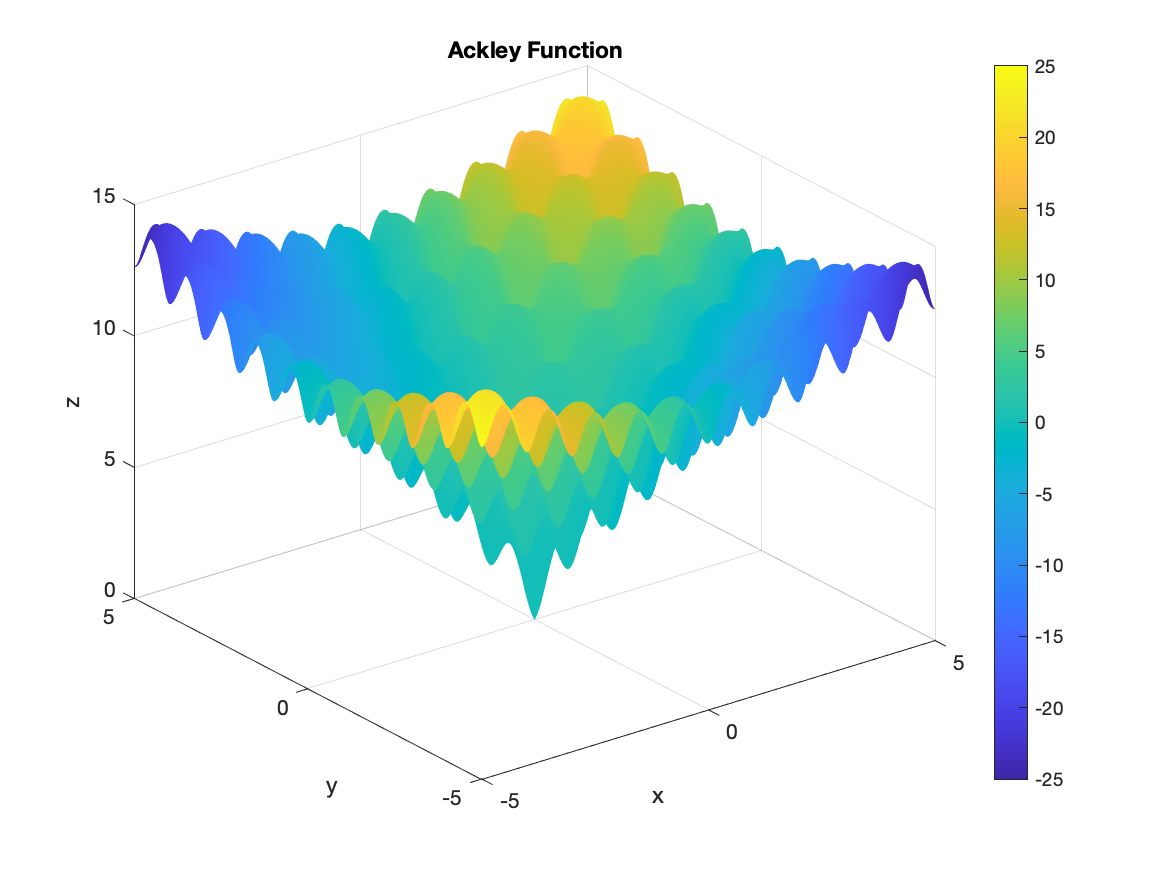
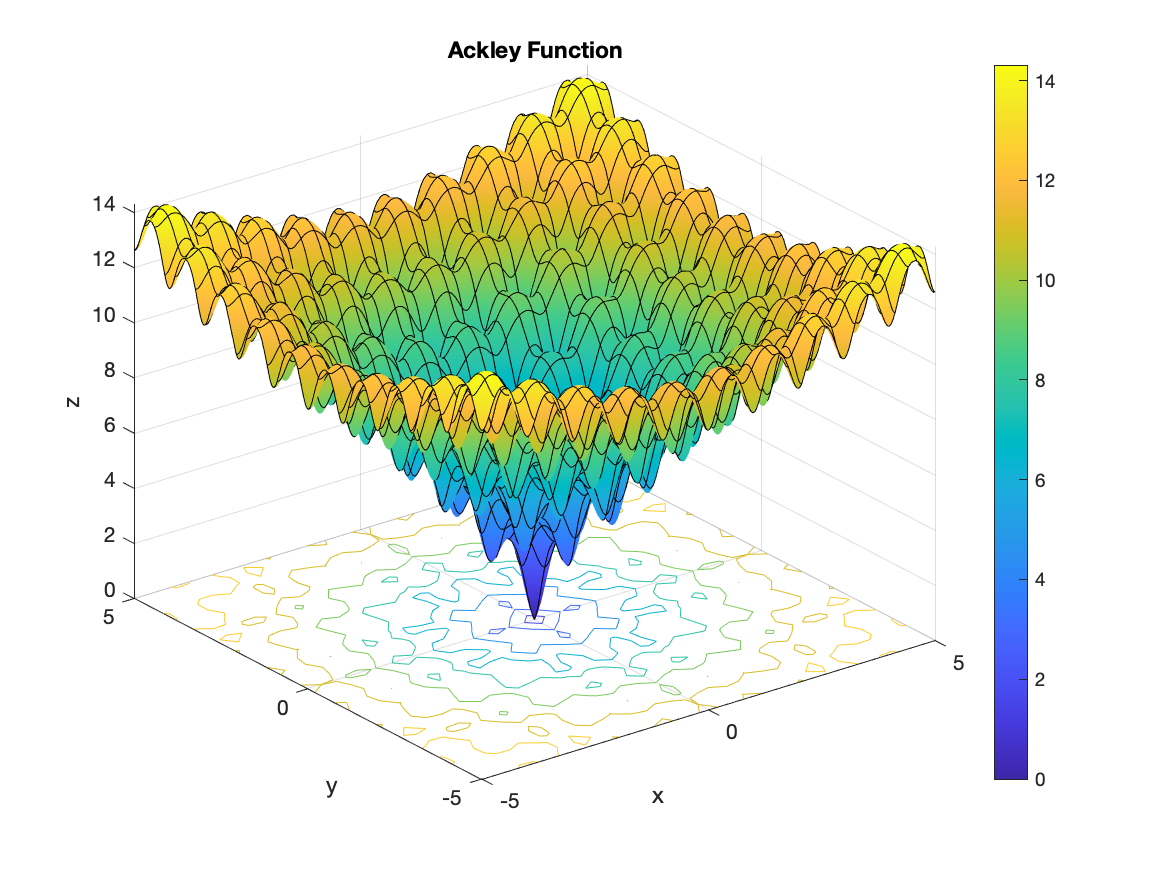
ackley added

diff --git a/code/E01_Optimization.m b/code/E01_Optimization.m
@@ -6,19 +6,22 @@ clear all
 clc
 options = optimset('Display','iter'); % Display iterations
 
-%   Ackley func.
+%%  Ackley func.
 %   Global min at (0,0)
-[x, y] = meshgrid(-5:0.01:5, -5:0.01:5);
-z = -20 * exp(-0.2 * sqrt(0.5 * ( x .^ 2 + y .^ 2))) ... 
-                - exp(0.5 * (cos(2 * pi * x) + cos(2 * pi * y))) ...
+f = @(x,y) -20 * exp(-0.2 * sqrt(0.5 * ( x .^ 2 + y .^ 2))) ... 
+                - exp(0.5 * (cos(2 * pi .* x) + cos(2 * pi .* y))) ...
                 + exp(1) + 20;
-c = x.*y; % colors
-
-p = surf(x, y, z, c);
-set(p, 'LineStyle', 'none')
+            
+fsurf(f,[-5,5],'ShowContours','on')
 colorbar
 xlabel('x')
 ylabel('y')
 zlabel('z')
 title('Ackley Function')
 saveas(gcf, '../figs/e01_opt_ackley.png')
+
+fun = @(x) f(x(1),x(2));
+x0 = [1, 1]; % initial guess
+[x, fval, exitflag, output] = fminunc(fun,x0,options);
+uncx = x
+uncf = fval

diff --git a/README.md b/README.md
@@ -1,2 +1,31 @@
-# MATLABExamples
+# MATLAB Examples
 Various MATLAB examples. 
+
+## Optimization
+
+### Ackley Function
+
+![](figs/e01_opt_ackley.png)
+
+```
+                                                        First-order 
+ Iteration  Func-count       f(x)        Step-size       optimality
+     0           3          3.62538                          1.64
+     1          72      3.55271e-15       0.610701           2.83  
+
+Local minimum possible.
+
+fminunc stopped because it cannot decrease the objective function
+along the current search direction.
+
+<stopping criteria details>
+
+uncx =
+
+     0     0
+
+
+uncf =
+
+   3.5527e-15
+```
